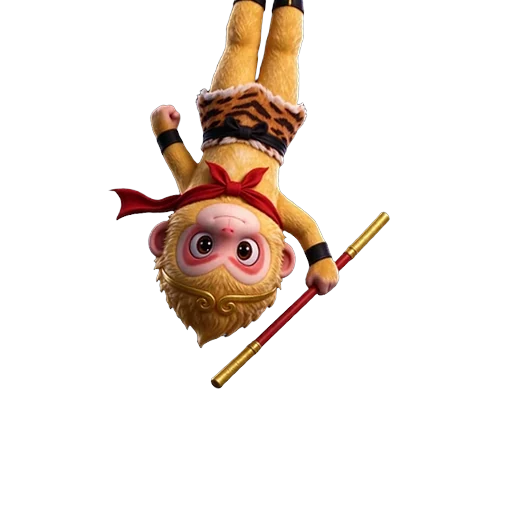
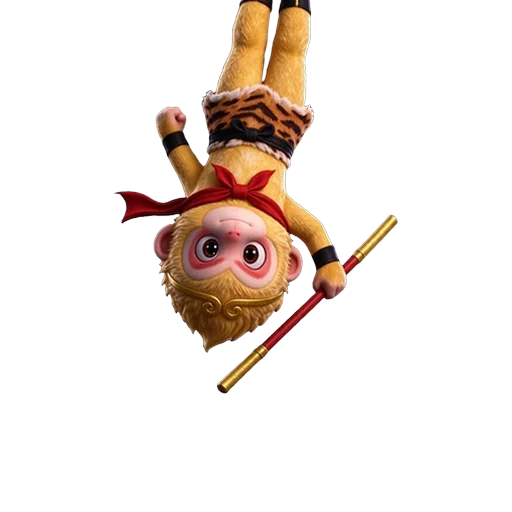
修复后空翻旋转感:翻越段改用蜷缩姿态角度过渡(弓身横转-蜷缩倒立-蜷曲翻越-屈膝落地),去除站立姿态旋转帧

Changed region(s): [[0.2188, 0.0, 0.7812, 0.7812]]

diff --git a/scripts/gen_flip_frames.py b/scripts/gen_flip_frames.py
@@ -46,27 +46,29 @@ def norm(im):
     return canvas
 
 # 关键帧表: (源图, 渐入旋转角(往回转), 垂直位移dy)
+# 动作链：站立→半蹲→屈膝蓄力→蹬地跳起→腾空→弓身横转→弓身下翻→蜷缩倒立→
+#         斜倒立→竖直倒立→蜷曲翻越→屈膝落地→站稳（全程身体姿态变化，无"站立姿态旋转"帧）
 FRAMES = [
-    ('stand', 0, 0),
-    ('blend', 0, 0),
-    ('squat', 0, 0),
-    ('flip1', 0, -30),
-    ('flip2', 0, -80),
-    ('flip3', -18, -108),
-    ('flip3', -9, -112),
-    ('flip3', 0, -112),
-    ('flip4', -10, -104),
-    ('flip4', 0, -98),
-    ('flip5', -8, -96),
-    ('flip5', 0, -92),
-    ('flip6', -16, -78),
-    ('flip6', -8, -62),
-    ('flip6', 0, -48),
-    ('flip7', -12, -36),
-    ('flip7', 0, -24),
-    ('flip8', -10, -14),
-    ('flip8', 0, -5),
-    ('stand', 0, 0),
+    ('stand', 0, 0),        # 0 直立站立
+    ('blend', 0, 0),        # 1 半蹲（混合）
+    ('squat', 0, 0),        # 2 屈膝蓄力
+    ('flip1', 0, -30),      # 3 蹬地跳起
+    ('flip2', 0, -80),      # 4 腾空
+    ('flip3', -60, -108),   # 5 弓身横转（蜷缩转回60°，身体横躺）
+    ('flip3', -30, -112),   # 6 弓身下翻（蜷缩转回30°）
+    ('flip3', 0, -112),     # 7 蜷缩倒立
+    ('flip4', -10, -104),   # 8 斜倒立渐入
+    ('flip4', 0, -98),      # 9 斜倒立
+    ('flip5', -8, -96),     # 10 竖直倒立渐入
+    ('flip5', 0, -92),      # 11 完全倒立
+    ('flip3', 45, -80),     # 12 蜷曲翻越（倒立继续翻，头朝左下）
+    ('flip3', 30, -64),     # 13 蜷曲翻越（继续翻越）
+    ('flip3', 15, -48),     # 14 蜷曲翻越（接近横躺回正）
+    ('flip3', 5, -34),      # 15 蜷曲翻越（回正前）
+    ('flip8', -10, -20),    # 16 屈膝落地渐入
+    ('flip8', 0, -8),       # 17 屈膝落地
+    ('blend2', 0, 0),       # 18 落地站稳（屈膝→直立的过渡）
+    ('stand', 0, 0),        # 19 直立站稳
 ]
 
 def render(src, angle, dy):
@@ -74,11 +76,24 @@ def render(src, angle, dy):
         a = norm(stand)
         b = norm(squat)
         out = Image.blend(a, b, 0.5)
+    elif src == 'blend2':
+        a = norm(S['flip8'])
+        b = norm(stand)
+        out = Image.blend(a, b, 0.45)
     else:
-        im = norm(S[src])
-        out = im
+        out = norm(S[src])
     if angle:
         out = out.rotate(angle, center=(256, 256), resample=Image.BICUBIC)
+        bbox2 = out.getbbox()
+        if bbox2:
+            c = out.crop(bbox2)
+            w2, h2 = c.size
+            sc = TARGET_H / h2
+            c = c.resize((max(1, int(w2 * sc)), TARGET_H), Image.LANCZOS)
+            tmp = Image.new('RGBA', (512, 512), (0, 0, 0, 0))
+            tmp.paste(c, ((512 - c.size[0]) // 2, (512 - TARGET_H) // 2 + dy), c)
+            out = tmp
+        return out
     if dy:
         tmp = Image.new('RGBA', (512, 512), (0, 0, 0, 0))
         tmp.paste(out, (0, dy), out)
